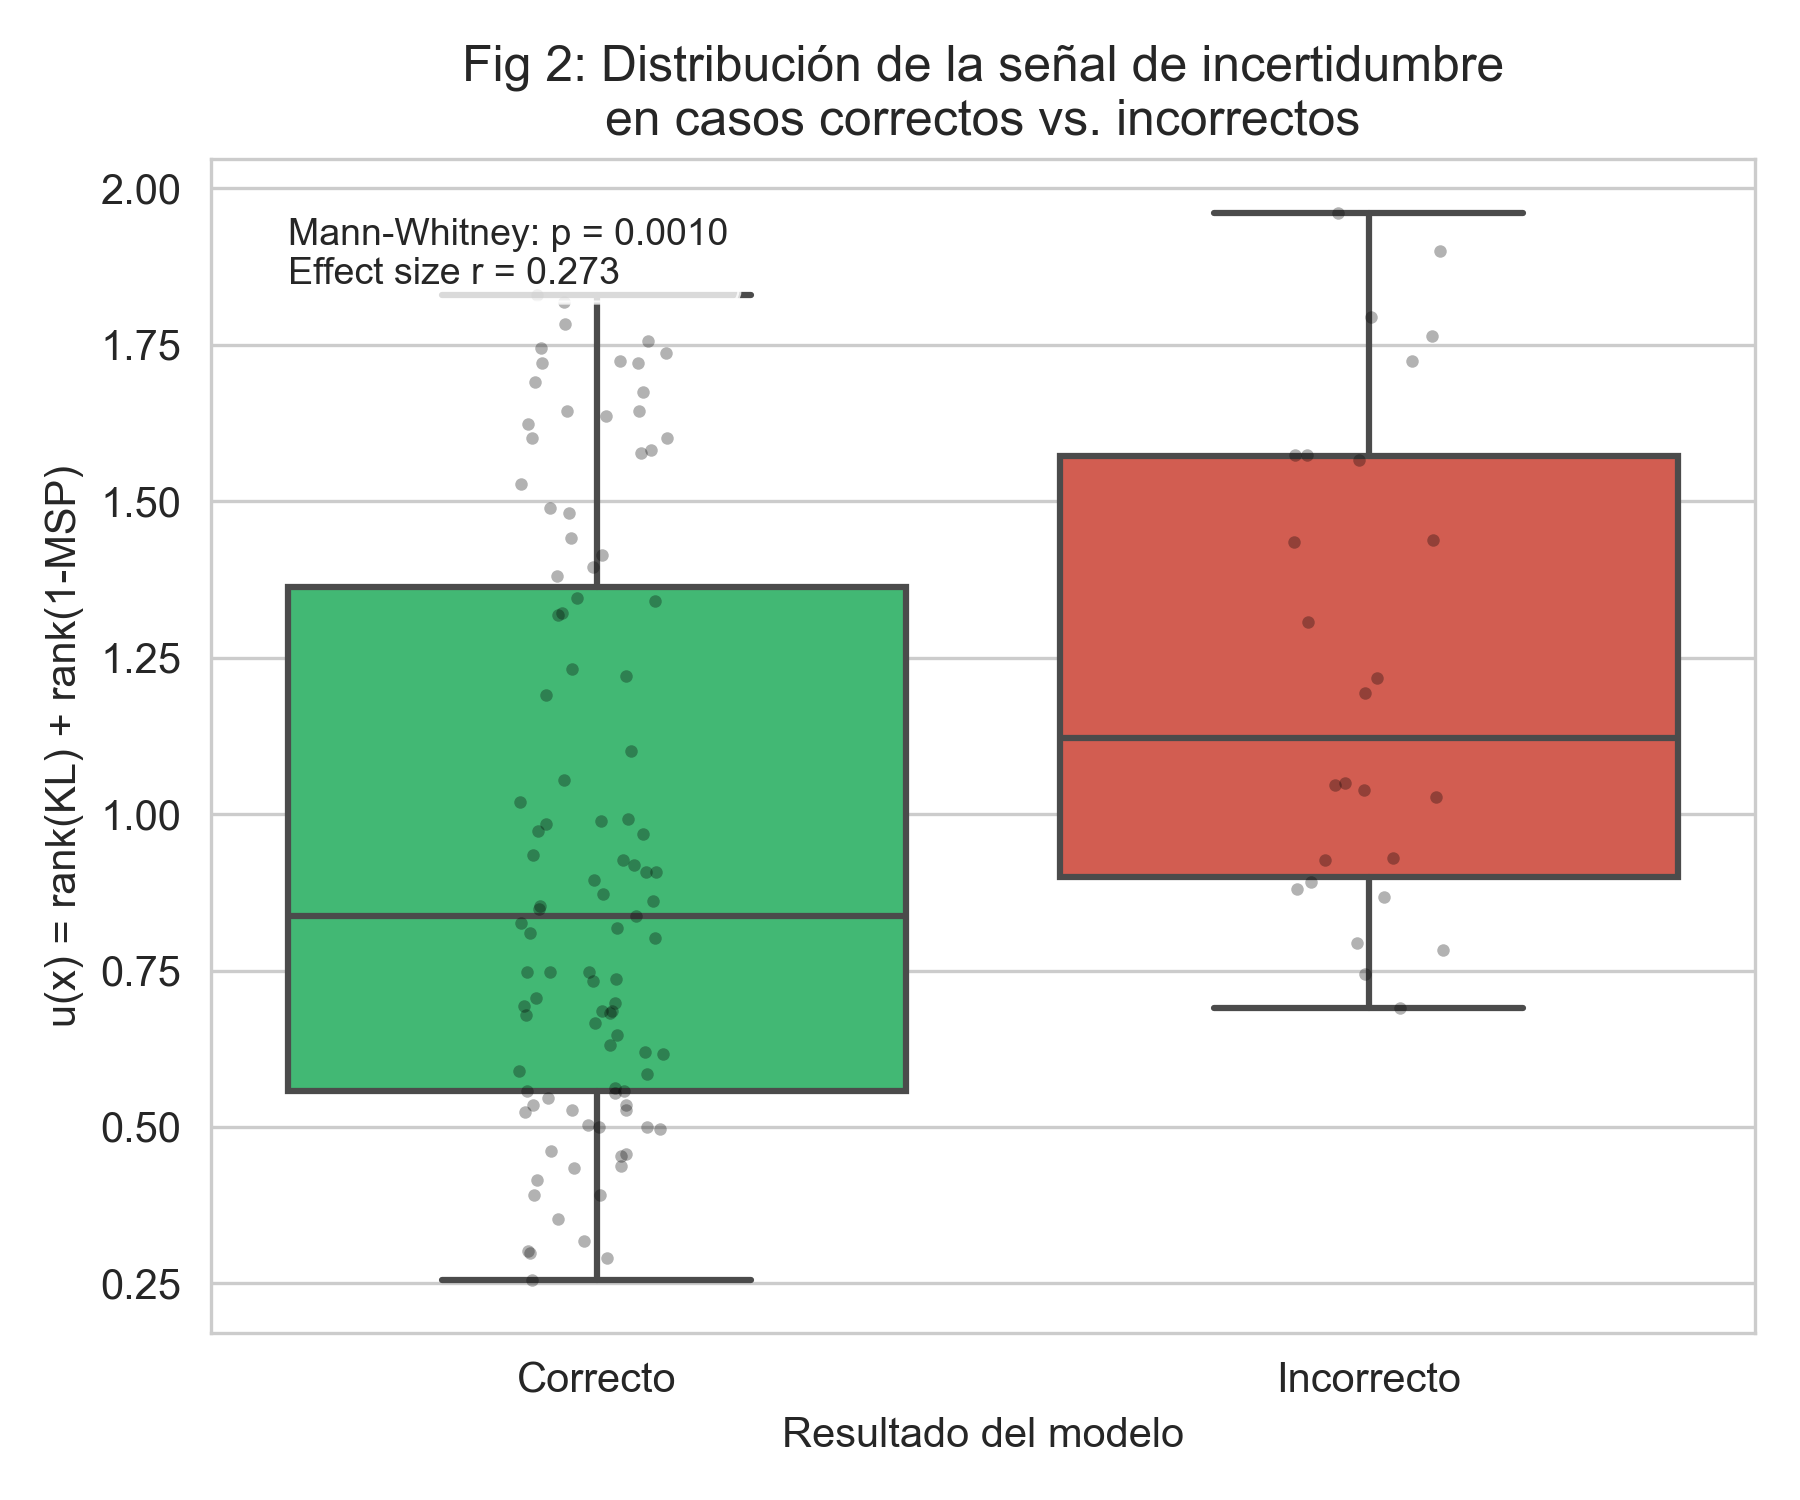
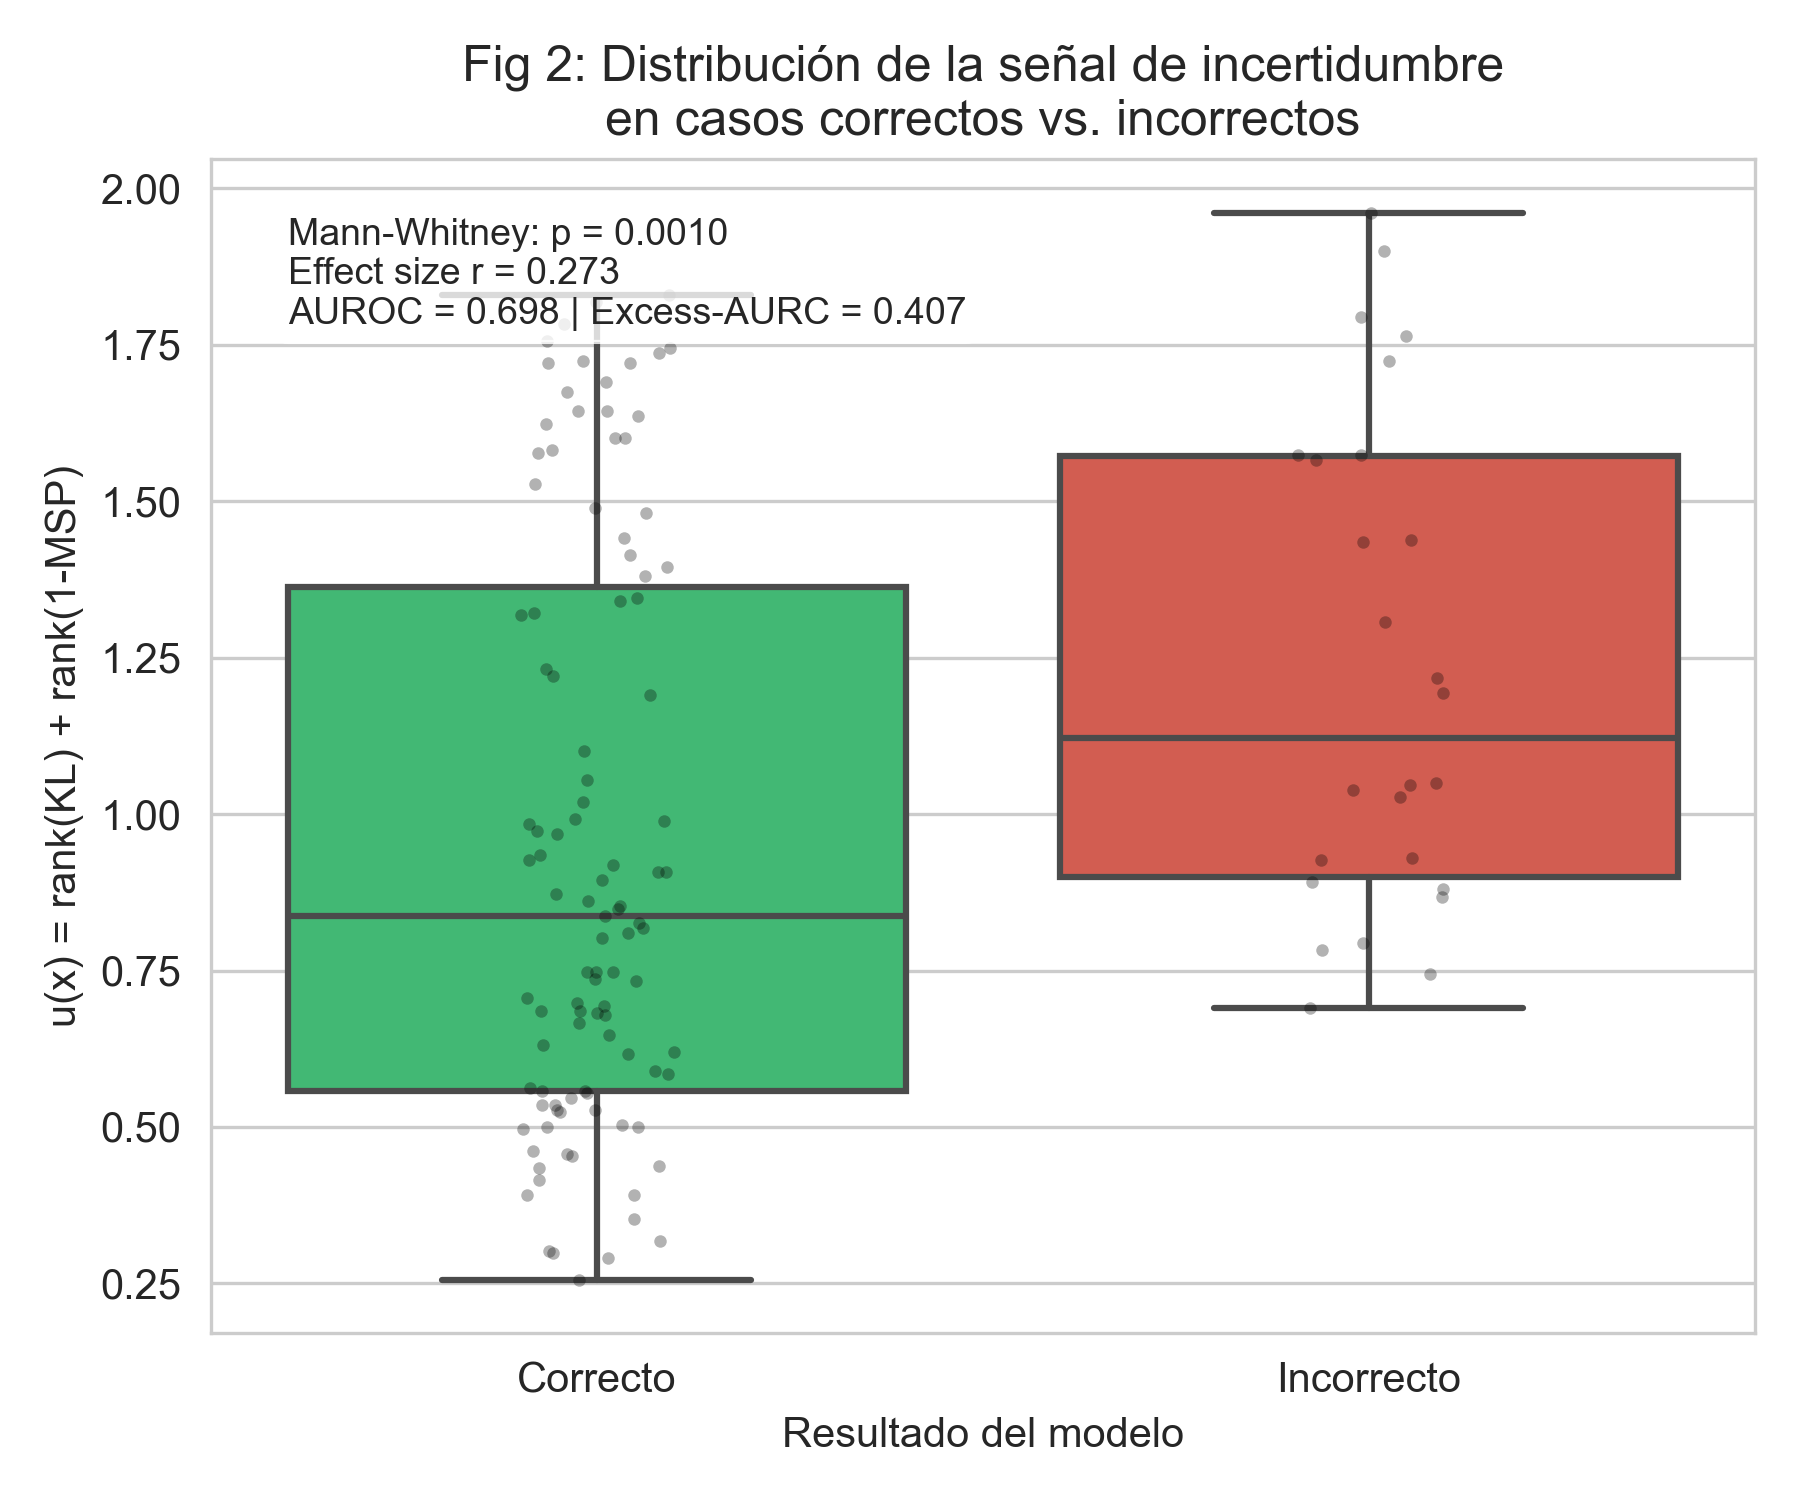
feat: figuras actualizadas con AURC y Excess-AURC
- Fig 4 (accuracy-coverage): leyenda con AURC y Excess por señal —
  es la curva hermana de riesgo-cobertura, el AURC es su área
- Fig 2 (boxplots): anotación con AUROC + Excess-AURC junto a MWU

diff --git a/src/figures.py b/src/figures.py
@@ -104,6 +104,17 @@ def fig2_boxplot(frame: pd.DataFrame, signal_name: str, out_path: Path) -> None:
     except Exception:
         p_text = "Mann-Whitney: no disponible"
 
+    # Métricas de la señal mostrada (AUROC y Excess-AURC)
+    data_all = frame[["correct", "value"]].dropna()
+    y_c = data_all["correct"].values
+    v = data_all["value"].values.astype(float)
+    try:
+        auroc_val = roc_auc_score(1 - y_c, v)
+        exc_val = excess_aurc(y_c, v)["excess_aurc_norm"]
+        p_text += f"\nAUROC = {auroc_val:.3f} | Excess-AURC = {exc_val:.3f}"
+    except Exception:
+        pass
+
     ax.text(0.05, 0.95, p_text, transform=ax.transAxes, fontsize=9,
             verticalalignment="top", bbox=dict(boxstyle="round", facecolor="white", alpha=0.8))
 
@@ -171,7 +182,7 @@ def fig3_roc_pr(signals: dict[str, pd.DataFrame], out_path: Path) -> None:
 # ------------------------------------------------------------------------------
 def fig4_accuracy_coverage(signals: dict[str, pd.DataFrame], out_path: Path) -> None:
     """Accuracy del subconjunto retenido al derivar el X% más incierto."""
-    fig, ax = plt.subplots(figsize=(7, 5))
+    fig, ax = plt.subplots(figsize=(7.5, 5))
 
     base_acc = None
     for name, frame in signals.items():
@@ -179,6 +190,10 @@ def fig4_accuracy_coverage(signals: dict[str, pd.DataFrame], out_path: Path) -> 
         y_correct = 1 - y_error
         base_acc = y_correct.mean()
         n_valid = len(vals)
+
+        # AURC de la señal (área bajo la curva riesgo-cobertura completa)
+        arc = excess_aurc(y_correct, vals)
+        label = f"{name} (AURC={arc['aurc']:.3f}, Excess={arc['excess_aurc_norm']:.3f})"
 
         order = np.argsort(-vals)  # más incierto primero
         coverages, accuracies = [], []
@@ -191,7 +206,7 @@ def fig4_accuracy_coverage(signals: dict[str, pd.DataFrame], out_path: Path) -> 
             coverages.append(coverage)
             accuracies.append(y_correct[keep].mean())
 
-        ax.plot(coverages, accuracies, label=name, linewidth=2, marker="o", markersize=3)
+        ax.plot(coverages, accuracies, label=label, linewidth=2, marker="o", markersize=3)
 
     if base_acc is not None:
         ax.axhline(base_acc, color="k", linestyle="--",
@@ -199,8 +214,8 @@ def fig4_accuracy_coverage(signals: dict[str, pd.DataFrame], out_path: Path) -> 
 
     ax.set_xlabel("Cobertura (fracción de casos respondidos)")
     ax.set_ylabel("Accuracy del modelo")
-    ax.set_title("Fig 4: Accuracy vs. Coverage\n(derivando el X% más incierto al oftalmólogo)")
-    ax.legend(loc="lower right", fontsize=8)
+    ax.set_title("Fig 4: Accuracy vs. Coverage\n(derivando el X% más incierto; AURC = área bajo 1−accuracy)")
+    ax.legend(loc="lower right", fontsize=7)
     ax.grid(True, alpha=0.3)
 
     plt.tight_layout()
